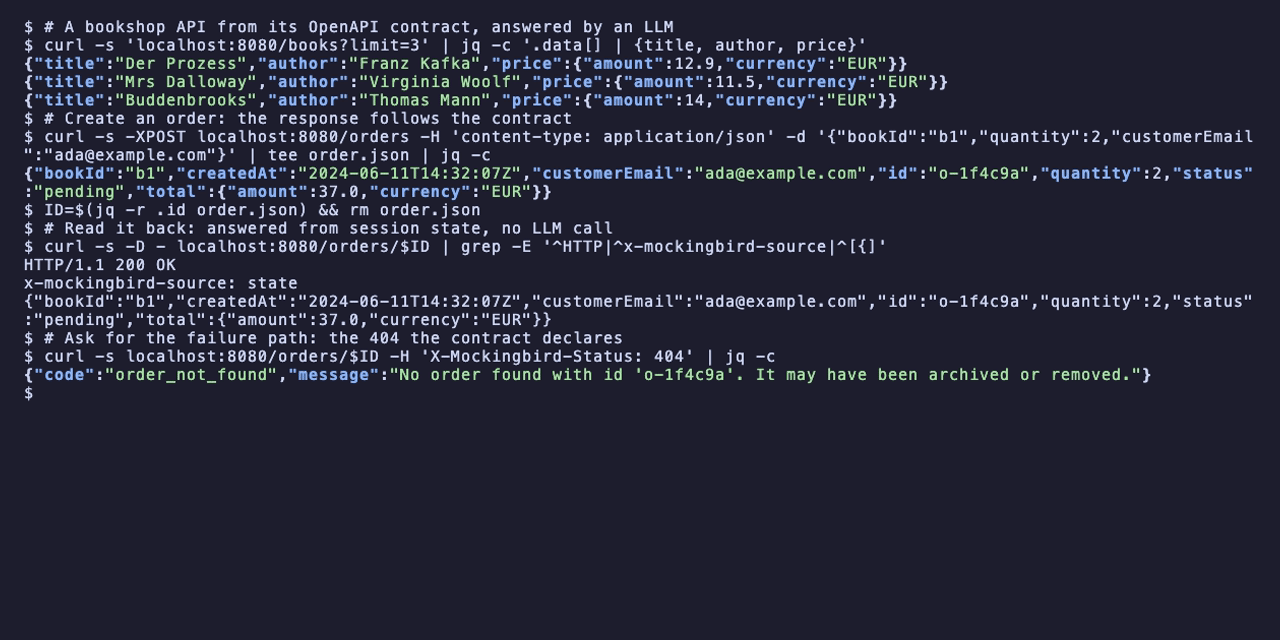
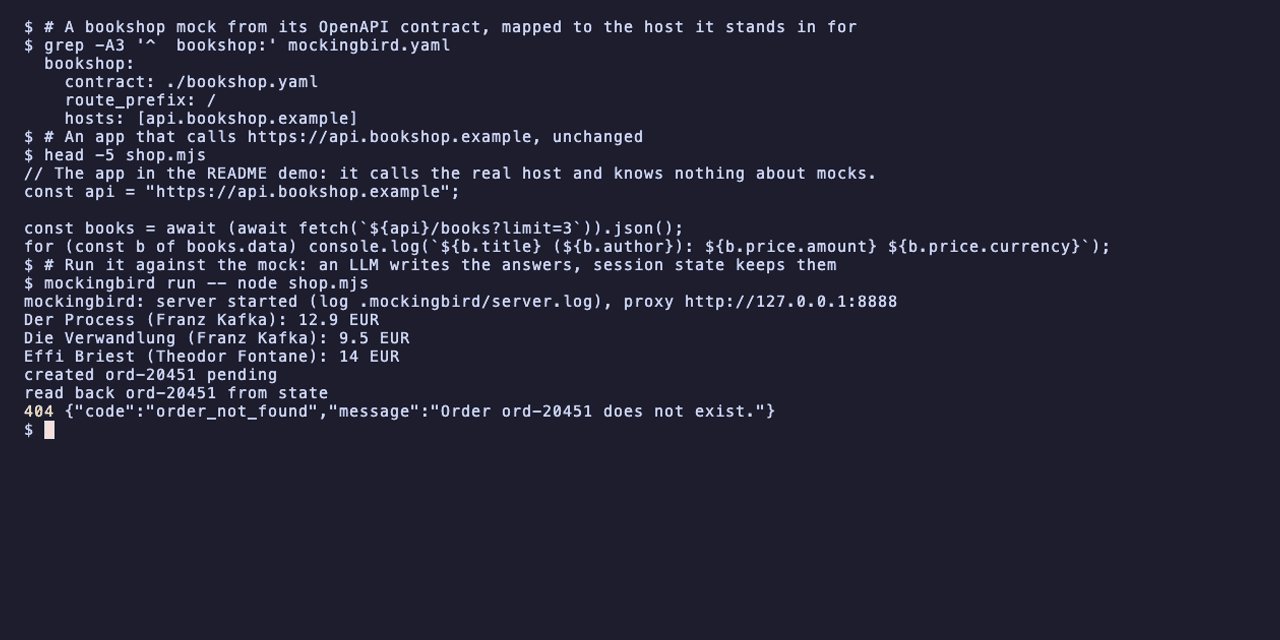
docs: reconcile launch docs, re-record the demo with mockingbird run, extend the changelog
- docs/SUMMARY.md: the CI, GitOps and examples entries point at their pages.
- README and docs/integrations.md: links to docs/ci.md, docs/iac.md,
  docs/deploy/gitops.md, docs/examples.md, integrations/github-action and
  integrations/testcontainers are relative; the dead #testcontainers anchor
  points at the GitOps section that covers it; a CI row in the README's
  Documentation table.
- The terminal demo runs an unchanged Node app (docs/assets/demo/shop.mjs)
  that calls https://api.bookshop.example under `mockingbird run`; demo.png
  is its last frame.
- CHANGELOG [Unreleased]: summary bullets for run, CI, IaC/GitOps, the
  examples catalog and the speed work; Added entries for `mockingbird run`,
  the per-runtime proxy preloads, browsers, path_rewrite and the examples
  catalog, which L2 and L6 had not listed.

Changed region(s): [[0.0, 0.0312, 0.9688, 0.6875]]

diff --git a/CHANGELOG.md b/CHANGELOG.md
@@ -10,9 +10,13 @@ The `mb-ext` crate follows semantic versioning on its own from 1.0.
 
 The 0.1.0 release: everything below, since 0.1.0-rc.1, in short (rename this heading to `## [0.1.0] - <date>` when tagging; see [docs/launch/checklist.md](docs/launch/checklist.md)).
 
-- **Run apps unchanged.** Mocks take the real host names they stand in for (`hosts:`), and `mockingbird proxy` intercepts HTTPS to them with a local CA, so an app reaches mocks of `api.stripe.com` or `api.github.com` without source edits ([proxy](docs/proxy.md)).
+- **Run apps unchanged.** Mocks take the real host names they stand in for (`hosts:`), and `mockingbird proxy` intercepts HTTPS to them with a local CA, so an app reaches mocks of `api.stripe.com` or `api.github.com` without source edits. `mockingbird run -- <command>` does the whole setup for one command, with preloads that make Node, Python, Java, Go, curl and Deno trust the CA and use the proxy, and `mockingbird proxy browser` for Chromium-based browsers ([proxy](docs/proxy.md)).
+- **Deterministic CI.** `serve --record` / `--replay` answers a CI run from recorded LLM answers without a key; `mockingbird report` and `mockingbird verify` turn the request log into a summary, JUnit and a pass/fail gate; a GitHub Action and a GitLab CI template wrap it ([CI](docs/ci.md)).
+- **Mocks as infrastructure.** A Terraform / OpenTofu provider and Pulumi ([IaC](docs/iac.md)); mocks declared in Helm values, Kustomize overlays, Argo CD and Flux previews per pull request, Argo Workflows, Tekton and Testcontainers modules for Node, Python, Java and Go ([GitOps](docs/deploy/gitops.md)).
+- **21 ready-made API mocks.** `mockingbird examples init stripe` (or GitHub, Shopify, Twilio, Slack, Plaid, TMDB and more) writes a contract, persona, scenarios and webhooks for the real host, plus three sample apps tested against them ([examples catalog](docs/examples.md)).
+- **Faster and leaner on real LLMs.** An output budget shapes huge response schemas (GitHub `search/commits` p50 29.8 s → 9.4 s), OpenRouter reasoning is off by default, GraphQL mutations and multi-root queries generate only their selection, and persona-declared id formats are patched locally ([performance](docs/performance.md#latency-against-a-real-llm)).
 - **Consistent, stateful answers.** Reads of what a session created come from its state, repeated reads from a per-session cache, and list items seed later reads by id; `unknown_ids: 404`, `default_scenario` and per-operation scenario instructions.
-- **Real-world contracts.** Stripe's and GitHub's full contracts load and serve: form-encoded and multipart bodies, covariant GraphQL interfaces, `$ref`s in vendor extensions, prompts fitted to a 64 KiB schema budget, GraphQL answers generated from the selection set, and local patching instead of repair calls. Fallbacks dropped from 25–33% in the field trials to none on the Stripe and TMDB trials.
+- **Real-world contracts.** Stripe's and GitHub's full contracts load and serve: form-encoded and multipart bodies, covariant GraphQL interfaces, `$ref`s in vendor extensions, prompts fitted to a 64 KiB schema budget, GraphQL answers generated from the selection set, and local patching instead of repair calls. Fallbacks dropped from 25–33% in the field trials to none on the Stripe and TMDB trials; a second round of trials ran plaid/quickstart, healthchecks, the GitHub CLI, Next.js Commerce and Stripe's Java sample unchanged under `mockingbird run` ([trials](docs/trials/README.md)).
 - **Diagnosable.** `X-Mockingbird-Fallback-Reason`, `X-Mockingbird-Validation` and the request log say why an answer fell back or a request was rejected.
 - **Smart import drafts you can finish.** Several URLs and documents per draft, merge or replace, embedded OpenAPI blocks taken as written, confidence and warnings per operation, and MCP tools to read, edit and approve drafts.
 - **Agents set it up alone.** The MCP server finds keys from the login shell, `agent install` passes key names through to each agent, and `keys setup` stores a key without it passing through the agent.
@@ -51,6 +55,11 @@ The 0.1.0 release: everything below, since 0.1.0-rc.1, in short (rename this hea
 - Migration `0650_import_drafts` adds `contract_versions.warnings` and `import_jobs.mode`.
 - Mocks take `hosts:` (config, Admin API, console client). Dispatch filters by `Host`, then takes the longest prefix, so mocks on different hosts may share a route prefix (GitHub REST at `/` and GraphQL at `/graphql` on `api.github.com`). A GraphQL mock also answers at its own mount point (`POST /graphql` for a mock at `/graphql`). Migration `0600_mock_hosts` adds `mocks.hosts`.
 - `mockingbird proxy` (and `serve --proxy` / `proxy.enabled`): an HTTP proxy that intercepts HTTPS to mapped hosts with a local CA (`~/.mockingbird/ca`, `MB_CA_DIR`, `proxy.ca_dir`; never installed system-wide); `proxy.unmapped: pass | block` (default `pass`); placeholder PNGs for `proxy.images`; `mockingbird ca path` and `mockingbird proxy env`; `GET /proxy/hosts` on the ops port. See [docs/proxy.md](docs/proxy.md).
+- `mockingbird run [-c FILE] [--offline] [--record DIR | --replay DIR] [--wait] [--keep] [--state-dir DIR] -- <command…>`: starts the server with its proxy unless one already answers, waits for `/readyz`, runs the command with the proxy environment, stops what it started and exits with the command's code (`128+n` on a signal, `127` when the command cannot start).
+- `proxy env` covers more runtimes: a Node.js preload (`NODE_OPTIONS=--require <ca_dir>/node-proxy.cjs`) that sends every `http`/`https` agent and undici's `fetch` through the proxy and trusts the CA, `JAVA_TOOL_OPTIONS` (proxy properties and a JKS truststore), `CURL_CA_BUNDLE` and `DENO_CERT`; existing `NODE_OPTIONS` / `JAVA_TOOL_OPTIONS` are kept.
+- Browsers: a PAC file at `/proxy.pac`, and `mockingbird proxy browser` (Chrome, Chromium, Edge or Playwright's Chromium in a profile of its own that trusts the local CA by SPKI pin; `--print` prints the command). `proxy.images` entries may name a path prefix, with ipx `s_WxH` / `w_N` sizing; CONNECT tunnels to mapped hosts also carry plain HTTP.
+- `mocks.<name>.path_rewrite: {strip_prefix, add_prefix}` mounts a contract under another base path (config, Admin API and console client).
+- The examples catalog: `mockingbird examples list|show|init <name> [--dir] [--force] [--full]` with 21 API mocks embedded in the binary (Stripe, PayPal, Square, Plaid, GitHub REST and GraphQL, Shopify Admin GraphQL, Twilio, Slack, SendGrid, Discord, HubSpot, Notion, Jira, Zendesk, Auth0 Management, Spotify, TMDB, OpenWeatherMap, Kafka events and an OTLP collector), each mapping the real host with a persona, scenarios and webhooks; `--full` downloads the pinned upstream spec and checks its SHA-256. Sample apps in `examples/apps` (FastAPI + Stripe, go-github, Node + Shopify + Stripe) run their tests offline through the proxy. See [docs/examples.md](docs/examples.md).
 - MCP draft tools: `get_draft` (operations with confidence and warnings, one operation's definition on request), `edit_draft` (JSON merge patch on one operation or the whole draft; a patch that breaks it changes nothing) and `approve_draft` (activates by default). `import_contract` takes `urls` and `mode`.
 - Request log: Admin API `GET …/mocks/{mock}/requests/{id}` and `?fields=summary` (entries without bodies, with `request_bytes` / `response_bytes`); MCP `get_request`.
 - MCP `proxy_env` (the proxy variables and CA path, with `export` lines) and `start_server {proxy: true}`; `mockingbird server start --proxy`.
@@ -78,6 +87,7 @@ The 0.1.0 release: everything below, since 0.1.0-rc.1, in short (rename this hea
 - MCP `list_requests` returns summaries (method, path, status, source, fallback reason, sizes) unless `include_bodies: true`; `validate_contract` returns counts by protocol and the first 20 operations and channels (`operations_truncated`, `channels_truncated`).
 - Background-server logs carry no ANSI codes (colour only on a terminal; `server_logs` strips any left), and the MCP server tools find the server's state next to the config `start_server` used (or the `config` argument), not in the MCP process's folder.
 - The mock-api and testing skills recommend proxy mode over editing an app's base URL.
+- Every config reload logs at info, `serve -c` without `--watch` says it reads the file once, and a changed `proxy:` section logs that it needs a restart.
 - A `file:` secret reference into `~/.mockingbird/secrets` is refused when the file is readable by group or others; other `file:` paths (container mounts) are unchanged.
 - `mockingbird mcp`'s login-shell import also fills a variable that is set but empty (an agent's `${NAME:-}` passthrough) when the shell has a value.
 - `server start` drops `HTTP(S)_PROXY` variables that point at the server's own proxy from the server's environment.

diff --git a/README.md b/README.md
@@ -7,7 +7,7 @@
 [![License: MIT OR Apache-2.0](https://img.shields.io/badge/license-MIT%20OR%20Apache--2.0-blue)](#license)
 [![Docs](https://img.shields.io/badge/docs-mdBook-informational)](docs/README.md)
 
-![A terminal session against a bookshop API mock: a list of real-looking books with EUR prices, an order created and then read back from session state, and the 404 the contract declares](docs/assets/demo.gif)
+![A terminal session: a bookshop mock mapped to api.bookshop.example, and an unchanged Node app run with `mockingbird run` that lists real-looking books with EUR prices, creates an order, reads it back from session state and gets the 404 the contract declares](docs/assets/demo.gif)
 
 Give Mockingbird an OpenAPI, GraphQL, protobuf, WSDL or AsyncAPI contract and it serves a mock whose answers read like production data: names, prices, timestamps and ids that fit together, in your contract's exact shape. Create an order and the next `GET` returns that order. Ask for a 404, a slow response or a flaky upstream and you get it in the API's own error format. Run your app under `mockingbird run` and its calls to `api.stripe.com` or `api.github.com` land on the mocks, with no base URL to change.
 
@@ -75,16 +75,16 @@ Choose WireMock or Mockoon when you want exact, hand-authored responses; Prism w
 
 | | |
 | --- | --- |
-| **CI** | [GitHub Action](https://github.com/RJ-s-Org/Mockingbird/tree/main/integrations/github-action), GitLab CI, snapshot replay without an LLM key: [CI guide](https://github.com/RJ-s-Org/Mockingbird/blob/main/docs/ci.md) |
+| **CI** | [GitHub Action](integrations/github-action), GitLab CI, snapshot replay without an LLM key: [CI guide](docs/ci.md) |
 | **Infrastructure as code** | Terraform / OpenTofu provider and Pulumi: [IaC guide](docs/iac.md) |
-| **Kubernetes** | [Helm chart](deploy/helm/mockingbird) (`oci://ghcr.io/rj-s-org/charts/mockingbird`), Argo CD and Flux: [Kubernetes](docs/deploy/kubernetes.md), [GitOps](https://github.com/RJ-s-Org/Mockingbird/blob/main/docs/deploy/gitops.md) |
-| **Tests** | Testcontainers: [GitOps and Testcontainers](https://github.com/RJ-s-Org/Mockingbird/blob/main/docs/deploy/gitops.md); fixtures with `export-fixtures` / `seed-fixtures`: [CLI](docs/cli.md) |
+| **Kubernetes** | [Helm chart](deploy/helm/mockingbird) (`oci://ghcr.io/rj-s-org/charts/mockingbird`), Argo CD and Flux: [Kubernetes](docs/deploy/kubernetes.md), [GitOps](docs/deploy/gitops.md) |
+| **Tests** | Testcontainers: [module](integrations/testcontainers), [throwaway mocks for a test run](docs/deploy/gitops.md#4-throwaway-mocks-for-a-test-run); fixtures with `export-fixtures` / `seed-fixtures`: [CLI](docs/cli.md) |
 | **Coding agents** | `/plugin marketplace add rj-s-org/mockingbird` in Claude Code, or `mockingbird agent install <codex\|cursor\|gemini\|kiro\|vscode\|windsurf\|claude-desktop>`: [Coding agents](docs/agents.md) |
 | **Containers** | `ghcr.io/rj-s-org/mockingbird` (full and `-slim`, signed with cosign): [Docker](docs/deploy/docker.md) |
 
 ## Examples
 
-The [examples catalog](https://github.com/RJ-s-Org/Mockingbird/blob/main/docs/examples.md) mocks about twenty well-known APIs, each ready to serve with one command. The [example gallery](examples/gallery/README.md) has one small configuration per protocol family and one for chaos.
+The [examples catalog](docs/examples.md) mocks about twenty well-known APIs, each ready to serve with one command. The [example gallery](examples/gallery/README.md) has one small configuration per protocol family and one for chaos.
 
 ## Documentation
 
@@ -102,6 +102,7 @@ The documentation is an [mdBook](docs/README.md) built from `docs/` (`scripts/do
 | [Coding agents](docs/agents.md) | The MCP server, skills and plugins for Claude Code, Codex, Cursor, Gemini CLI, Kiro, VS Code, Windsurf and ChatGPT; LLM provider onboarding |
 | [Console and auth](docs/console.md) | The web console, auth modes, roles, API keys, workspaces and the audit log |
 | [CLI client](docs/cli.md) | Driving the Admin API from the command line, fixtures and archive uploads |
+| [CI](docs/ci.md) | The GitHub Action and GitLab CI template, snapshot record and replay without an LLM key, `mockingbird report` and `mockingbird verify` |
 | [Admin API](docs/admin-api.md) | Resources, the request log, admin port safety and the [OpenAPI reference](docs/api/index.html) |
 | [Configuration reference](docs/configuration.md) | Every `mockingbird.yaml` key, with its default, range, environment variable and flag |
 | [Architecture](docs/architecture.md) | Crates, roles, the request flow, HA (bus, leader election) and state backends |

diff --git a/docs/integrations.md b/docs/integrations.md
@@ -4,9 +4,9 @@ Mockingbird runs wherever your tests and environments run. Each integration has 
 
 | Integration | What it gives you | Guide |
 | --- | --- | --- |
-| GitHub Action, GitLab CI | Start mocks in a job, replay recorded snapshots without an LLM key, fail the build on contract drift (`mockingbird report`, `mockingbird verify`) | [`docs/ci.md`](https://github.com/RJ-s-Org/Mockingbird/blob/main/docs/ci.md), [`integrations/github-action`](https://github.com/RJ-s-Org/Mockingbird/tree/main/integrations/github-action) |
+| GitHub Action, GitLab CI | Start mocks in a job, replay recorded snapshots without an LLM key, fail the build on contract drift (`mockingbird report`, `mockingbird verify`) | [CI](ci.md), [`integrations/github-action`](../integrations/github-action/README.md) |
 | Terraform / OpenTofu, Pulumi | Mocks, contracts, scenarios and LLM profiles as code, next to the rest of your infrastructure | [Infrastructure as code](iac.md) |
-| Helm, Argo CD, Flux | The chart, and GitOps recipes that keep mocks in sync with a repository | [Kubernetes](deploy/kubernetes.md), [`docs/deploy/gitops.md`](https://github.com/RJ-s-Org/Mockingbird/blob/main/docs/deploy/gitops.md) |
-| Testcontainers | A Mockingbird container per test suite | [`docs/deploy/gitops.md`](https://github.com/RJ-s-Org/Mockingbird/blob/main/docs/deploy/gitops.md#testcontainers) |
+| Helm, Argo CD, Flux | The chart, and GitOps recipes that keep mocks in sync with a repository | [Kubernetes](deploy/kubernetes.md), [GitOps](deploy/gitops.md) |
+| Testcontainers | A Mockingbird container per test suite | [`integrations/testcontainers`](../integrations/testcontainers/README.md), [GitOps](deploy/gitops.md#4-throwaway-mocks-for-a-test-run) |
 | Coding agents | MCP server, skills and plugins for Claude Code, Codex, Cursor, Gemini CLI, Kiro, VS Code, Windsurf and ChatGPT | [Coding agents](agents.md) |
-| Examples | About twenty real APIs, ready to serve | [`docs/examples.md`](https://github.com/RJ-s-Org/Mockingbird/blob/main/docs/examples.md), [`examples/apis`](https://github.com/RJ-s-Org/Mockingbird/tree/main/examples/apis), [gallery](../examples/gallery/README.md) |
+| Examples | About twenty real APIs, ready to serve | [Examples catalog](examples.md), [`examples/apis`](https://github.com/RJ-s-Org/Mockingbird/tree/main/examples/apis), [gallery](../examples/gallery/README.md) |

diff --git a/docs/SUMMARY.md b/docs/SUMMARY.md
@@ -21,10 +21,10 @@
 # Automation
 
 - [Integrations](integrations.md)
-- [CI]()
+- [CI](ci.md)
 - [Infrastructure as code](iac.md)
-- [Kubernetes GitOps]()
-- [Examples catalog]()
+- [Kubernetes GitOps](deploy/gitops.md)
+- [Examples catalog](examples.md)
 
 # Deploying
 
